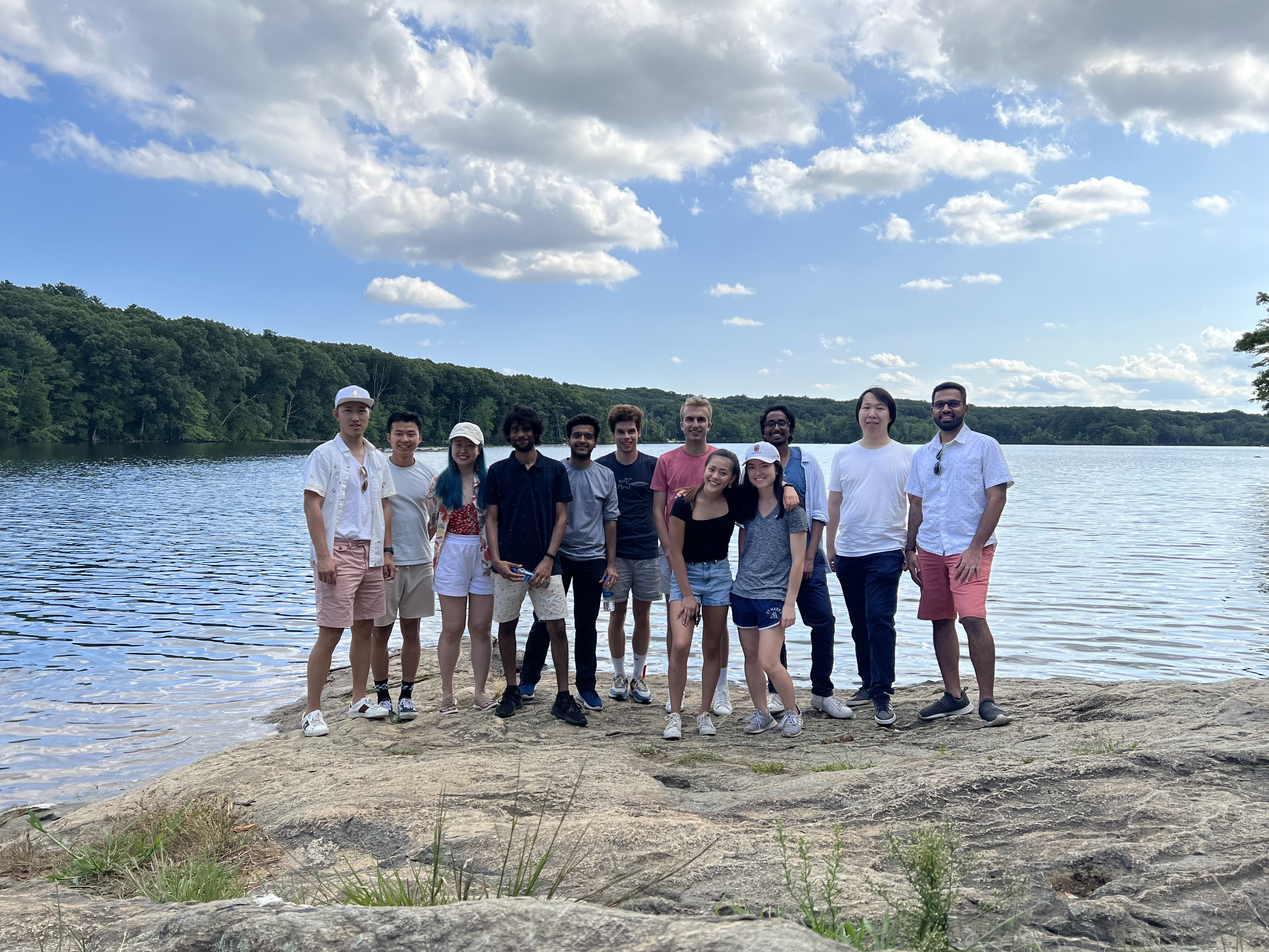
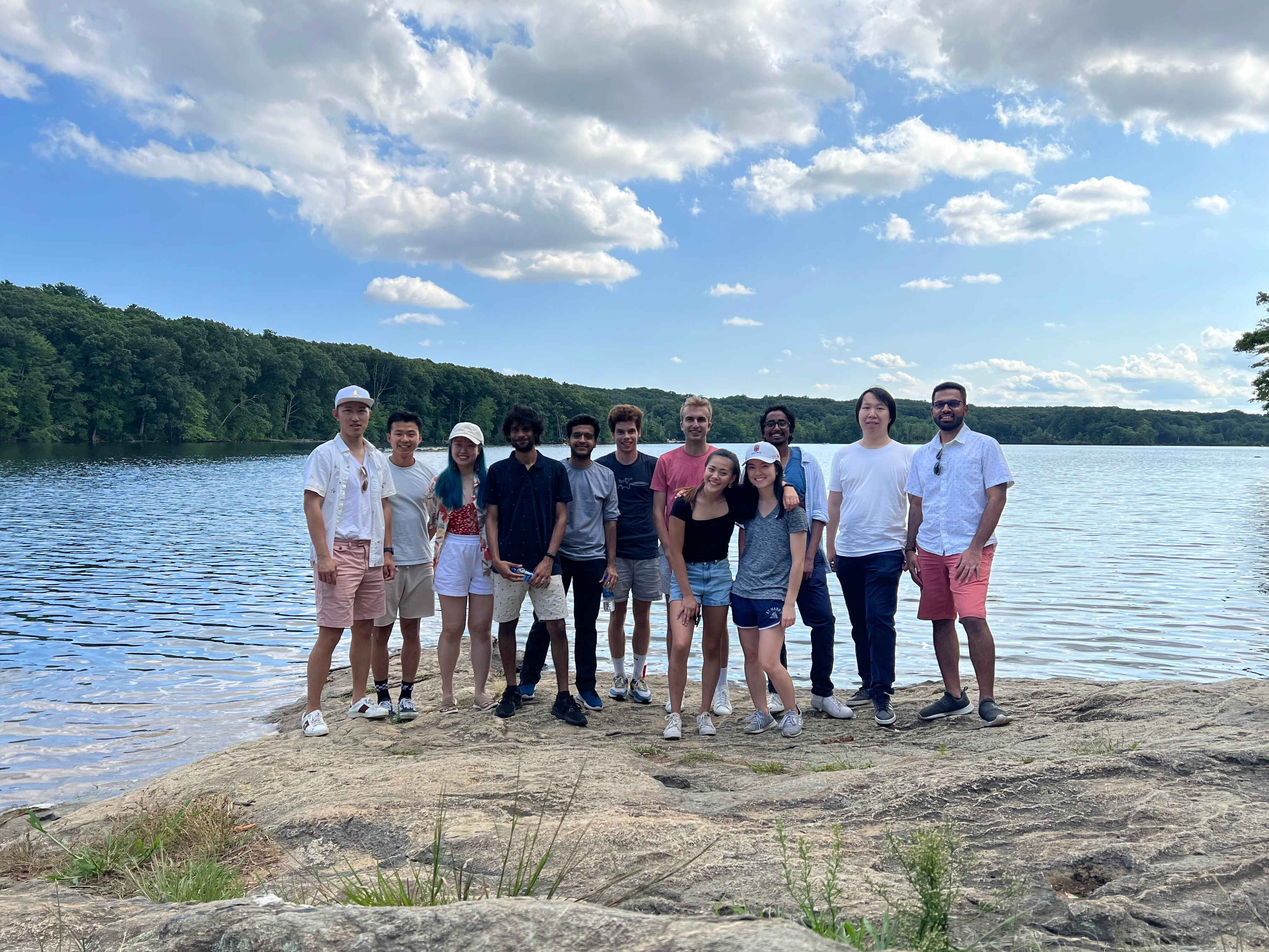
update files + compressed main page images

Changed region(s): [[0.1562, 0.8393, 0.1875, 0.8704], [0.0625, 0.4974, 0.0938, 0.5284]]

diff --git a/_includes/update.html b/_includes/update.html
@@ -1,0 +1,4 @@
+<li class="update-item">
+    <span class="badge rounded-pill bg-info text-dark">{{include.date}}:</span>
+    {{include.text}}
+</li>
